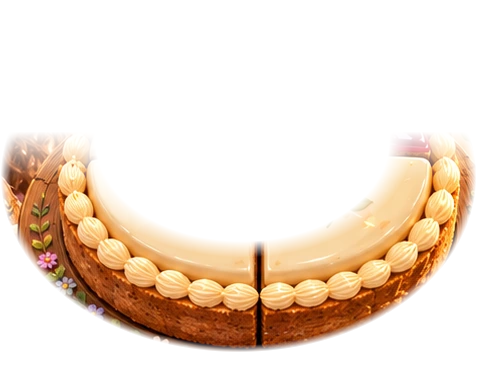
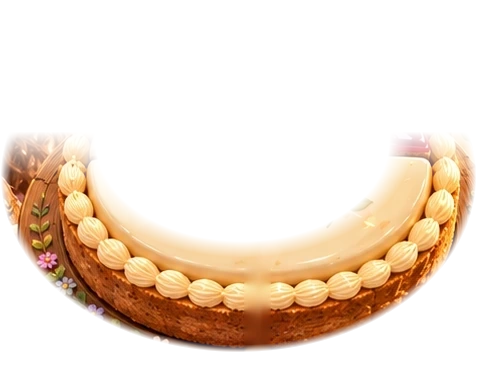
Brøklab: remove frozen four-slice seam and schematic cake halo for mathematically faithful dynamic pieces

Changed region(s): [[0.5, 0.6541, 0.5625, 0.9514]]

diff --git a/laer-litt-mer/fraction-cake-world-v1.js b/laer-litt-mer/fraction-cake-world-v1.js
@@ -82,7 +82,7 @@
         <radialGradient id="fc-plate" cx="25%" cy="20%"><stop stop-color="#e3b57e"/><stop offset=".54" stop-color="#a16c40"/><stop offset="1" stop-color="#673a22"/></radialGradient>
       </defs>
       <ellipse cx="147" cy="265" rx="127" ry="22" fill="#321d13" opacity=".25"/>
-      <ellipse cx="145" cy="158" rx="136" ry="124" fill="#53311f" opacity=".44"/>
+      <!-- Physical original-illustration cake front supersedes the schematic plate halo. -->
       <ellipse cx="145" cy="156" rx="131" ry="121" fill="url(#fc-plate)" stroke="#704329" stroke-width="5"/>
       <ellipse cx="145" cy="152" rx="123" ry="116" fill="none" stroke="#e6b778" stroke-width="3" stroke-dasharray="14 4 5 5" opacity=".75"/>
       ${flower(30,198,.78)}${flower(254,208,.8)}${flower(156,261,.55)}
